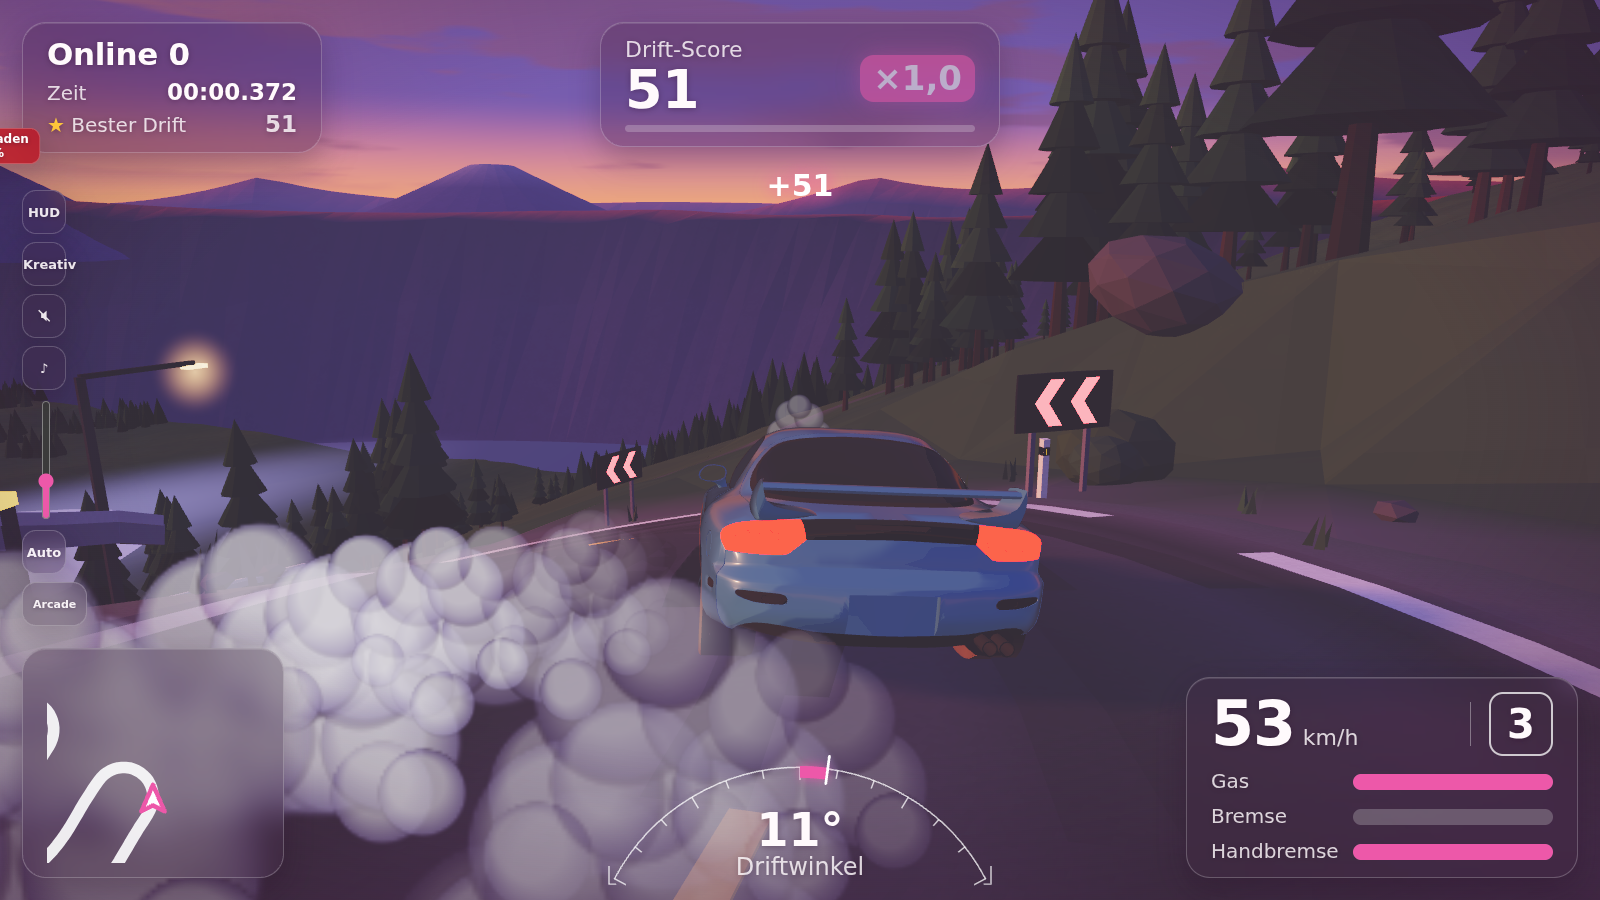
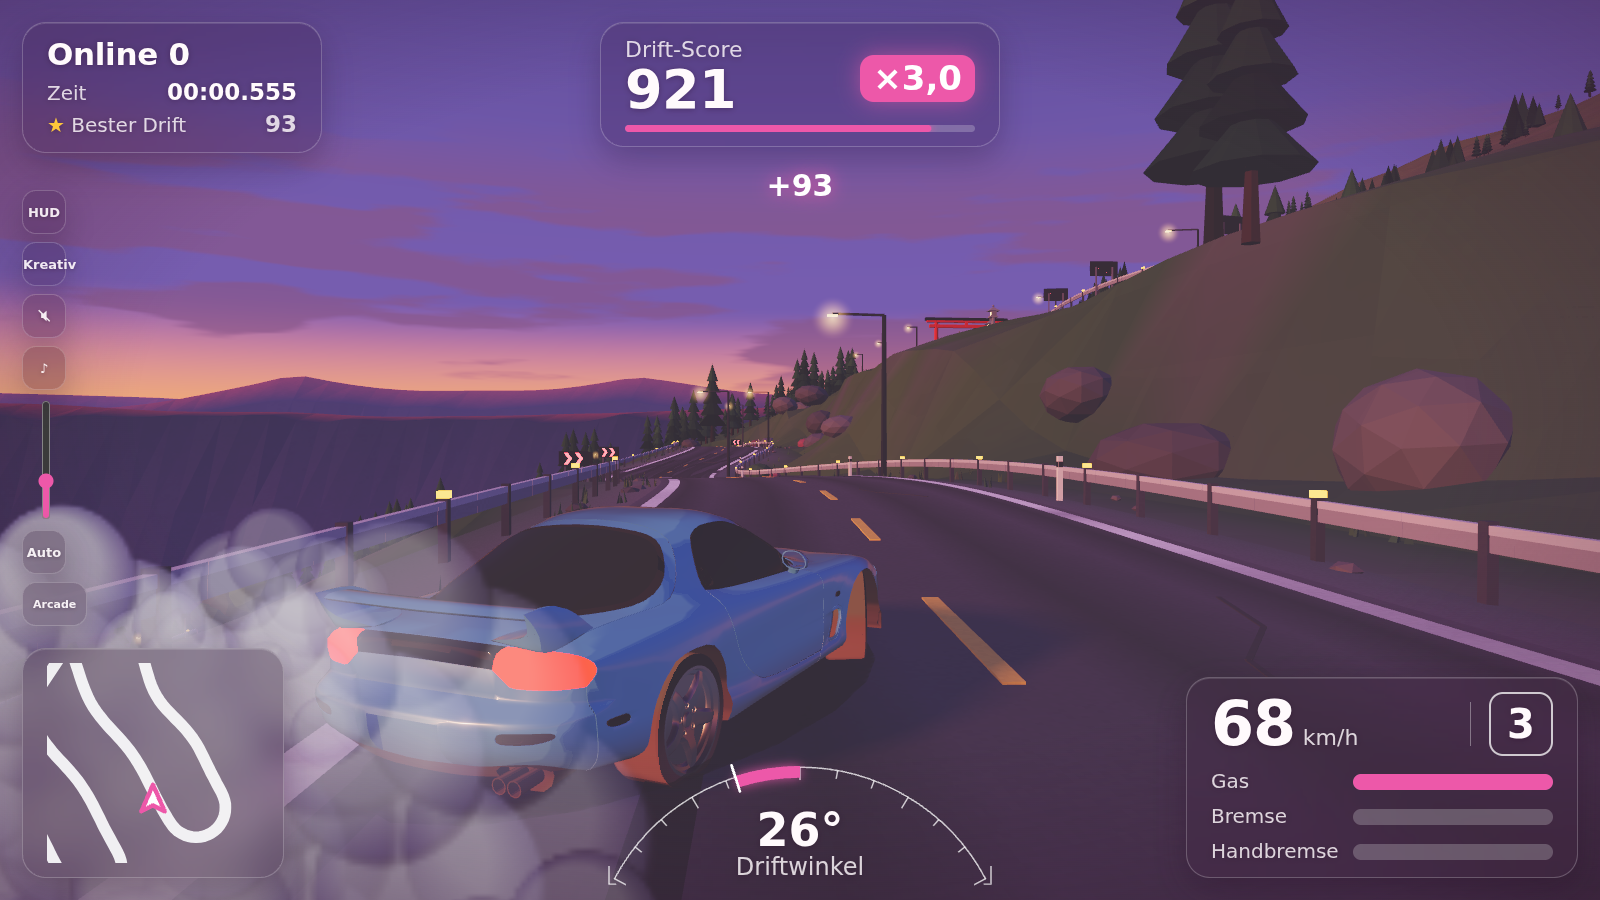
Touge: rails drawn on both sides, clean line-bot numbers for pictures, new picture

diff --git a/game/main.js b/game/main.js
@@ -420,7 +420,7 @@ reset();
 const demo = params.get('demo') === 'orbit', demoLine = params.get('demo') === 'line';   // ?demo=orbit|line: a bot drives (a circle, or the map's loop) for pictures
 let lineDriver = null;
 const freecam = params.has('freecam') ? params.get('freecam').split(',').map(Number) : null;
-if (demoLine) { const o = map.grid[0]; cur = prev = makeCar(o.x, o.z, o.h); cam.snap(cur); lineDriver = lineBot(stage.field.road, { closed: true, speed: 22, corner: 15 }); }
+if (demoLine) { const o = map.grid[0]; cur = prev = makeCar(o.x, o.z, o.h); cam.snap(cur); lineDriver = lineBot(stage.field.road, map.closed === false ? { closed: false, speed: 30, corner: 11, kick: 0.25, look: 14, hold: 0.55 } : { closed: true, speed: 22, corner: 15 }); }   // (the touge numbers: a clean run of about 118 s with 30 to 40 degree drifts in the hairpins, no wall touched)
 if (demo) { const o = mapId === 0 ? { x: -30, z: 8, h: Math.PI / 2 } : map.grid[0]; cur = prev = makeCar(o.x, o.z, o.h); cam.snap(cur); }
 
 // ----- the practice partner (?bot=1 or the key B): a bot drives a drift circle next to you; the tandem bonus is judged here, nothing is sent
